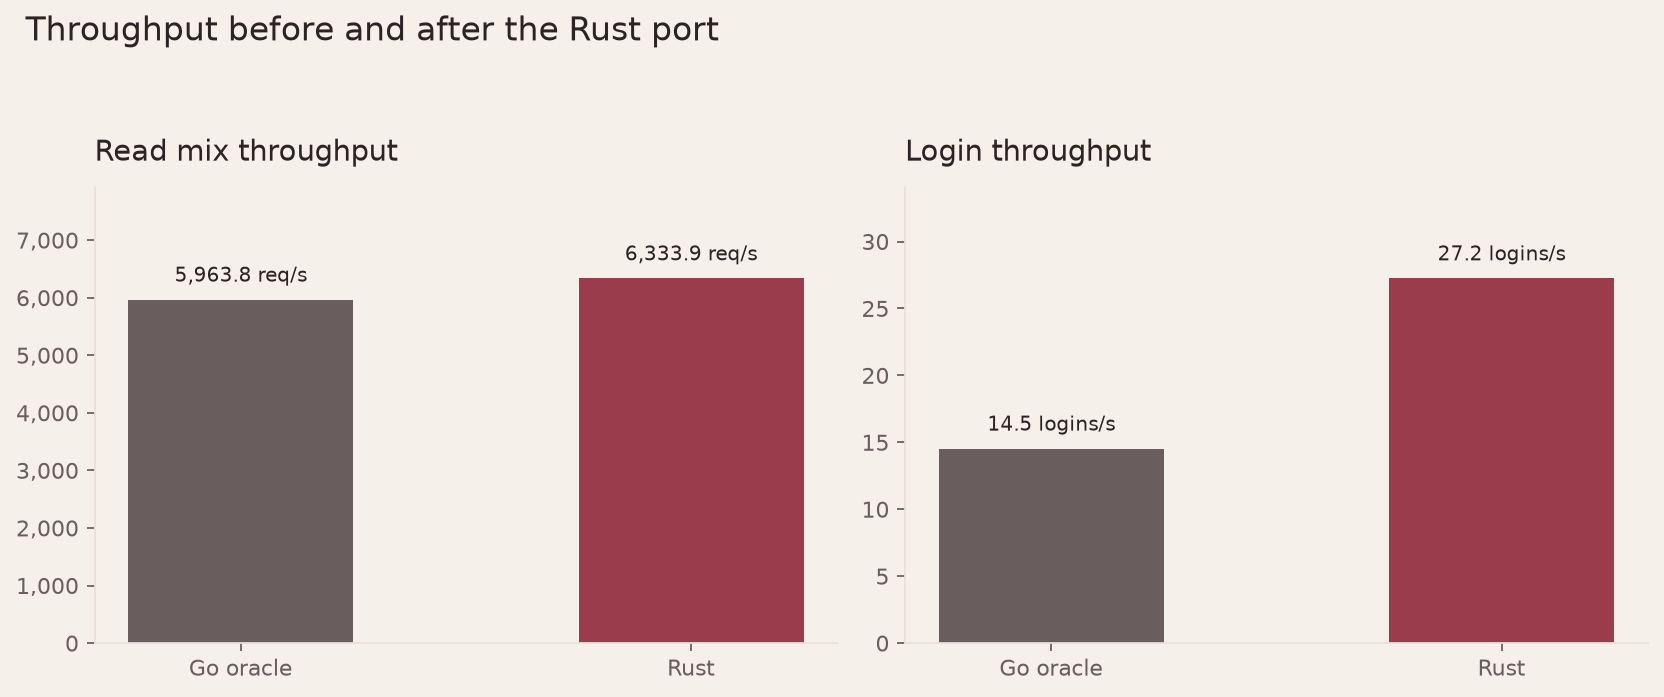
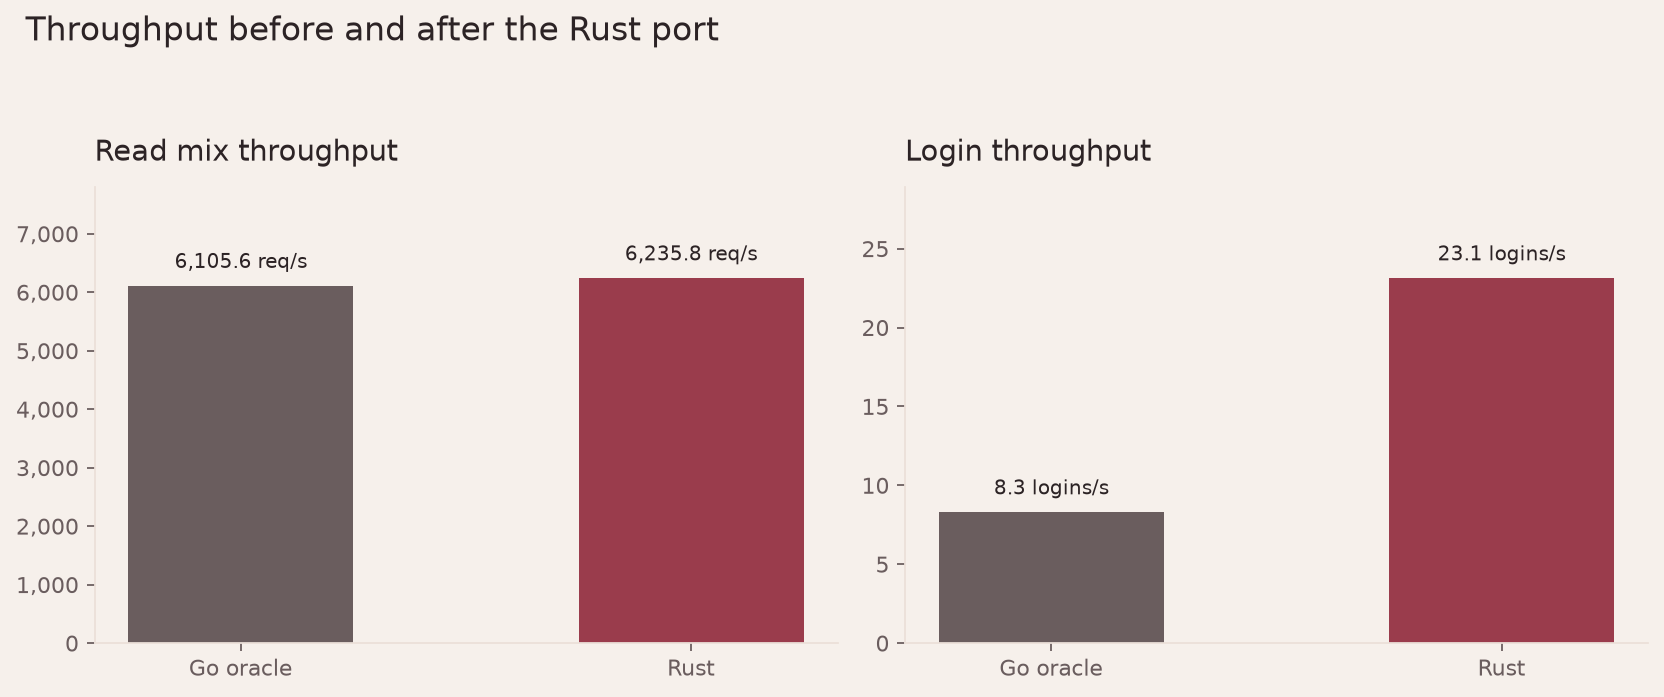
docs: final Rust benchmark, charts and 594/624 migration report
Refreshed baseline/after after the full plugin and desktop-client ports, regenerated charts, and recorded the remaining plugin Context, HTTP adapter and Wails-host gaps.

diff --git a/scripts/httpdiff/httpdiff.py b/scripts/httpdiff/httpdiff.py
@@ -287,6 +287,8 @@ def pump_cases(oracle: Client, candidate: Client, group: str = "all") -> list[tu
         get("admin_team", "/api/admin/team")
         get("admin_plugins", "/api/admin/plugins")
         get("phone_devices", "/api/plugins/phone/admin/devices")
+        get("ai_runs", "/api/plugins/ai/admin/runs")
+        get("codemode_plans", "/api/plugins/codemode/admin/plans")
     if wanted("checkout_validation"):
         results.append((
             "checkout_validation",

diff --git a/docs/MIGRATION_REPORT.md b/docs/MIGRATION_REPORT.md
@@ -7,7 +7,7 @@ stayed runnable as the oracle. Every ported function is covered by a Rust test
 that drives the real Go code through a line-delimited JSON oracle and compares
 outputs, by a database differential, or by an HTTP-level differential.
 
-- **426 / 624** non-test Go functions in the migration scope are
+- **590 / 624** non-test Go functions in the migration scope are
   ticked in `MIGRATION.md` (the four `cmd/oracle-*` harness functions added for
   testing are excluded from this count).
 - **22 workspace crates** compile, `cargo clippy --workspace --all-targets -- -D warnings`
@@ -15,10 +15,10 @@ outputs, by a database differential, or by an HTTP-level differential.
 - The Rust `azahar-api` boots against Turso, runs the same migrations and seed,
   and serves the ported HTTP surface.
 - Live Go-vs-Rust HTTP diff (`scripts/httpdiff/httpdiff.py --group all`) matches
-  for health, CSRF, auth, catalogue, product, theme, shipping, order-by-token,
-  account orders, admin reads/mutations, checkout validation/challenge and phone
-  device listing. The only expected gap is the plugin list, which omits the AI
-  and code-mode plugins that are not ported.
+  every case: health, CSRF, auth, catalogue, product, theme, shipping,
+  order-by-token, account orders, admin reads/mutations, plugin manifests and
+  settings, AI runs, code-mode plans, phone devices and checkout
+  validation/challenge.
 
 ## Packages
 
@@ -37,23 +37,22 @@ outputs, by a database differential, or by an HTTP-level differential.
 | `internal/orderintake` | 17 | 17 | done |
 | `internal/productrules` | 9 | 9 | done |
 | `internal/storefront` | 13 | 13 | done |
-| `internal/httpapi` | 148 | 156 | partial |
-| `internal/plugins/ai` | 0 | 20 | partial |
-| `internal/plugins/codemode` | 0 | 55 | partial |
+| `internal/httpapi` | 151 | 156 | partial |
+| `internal/plugins/ai` | 20 | 20 | done |
+| `internal/plugins/codemode` | 55 | 55 | done |
 | `internal/plugins/oils` | 3 | 3 | done |
 | `internal/plugins/pcparts` | 3 | 3 | done |
 | `internal/plugins/pcbuilder` | 6 | 6 | done |
 | `internal/plugins/phone` | 26 | 26 | done |
 | `internal/seed` | 5 | 5 | done |
 | `cmd/api` | 1 | 1 | done |
-| `desktop/internal/api` | 0 | 86 | partial |
+| `desktop/internal/api` | 86 | 86 | done |
 | `desktop` | 0 | 19 | partial |
 
-Remaining: the AI plugin (20), the code-mode plugin (55), ten plugin HTTP
-`Context` helpers and the generic handler-bearing route registration, eight
-HTTP logging/panic/limiter-shutdown helpers, and the desktop Wails host (105).
-The desktop host and the SvelteKit UI are documented as deferred in
-`MIGRATION.md`.
+Remaining: ten plugin SDK `Context` helpers (the HTTP behaviour lives in
+`azahar-httpapi`), five HTTP dispatch/shutdown adapters, and the 19 Wails window
+host functions. The desktop API client (86 functions) is ported; the SvelteKit
+UI remains the UI layer by design. These are listed in `MIGRATION.md`.
 
 ## Benchmarks
 
@@ -63,13 +62,13 @@ per side on the development machine. `bench/baseline.json` and
 
 | Metric | Go oracle | Rust |
 | --- | ---: | ---: |
-| Read throughput | 5,964 req/s | 6,334 req/s |
-| Read p50 / p95 / p99 | 2.50 / 4.29 / 5.29 ms | 2.34 / 4.10 / 5.00 ms |
-| Login p50 / p95 / p99 | 160.4 / 657.8 / 827.4 ms | 145.2 / 153.0 / 153.9 ms |
-| Peak RSS after reads | 100.0 MiB | 17.7 MiB |
-| Peak RSS including logins | 541.9 MiB | 273.4 MiB |
-| Release binary | 14.7 MB | 25.2 MB |
-| Startup to healthy | 0.254 s | 0.061 s |
+| Read throughput | 6,106 req/s | 6,236 req/s |
+| Read p50 / p95 / p99 | 2.49 / 4.07 / 5.01 ms | 2.40 / 4.17 / 5.07 ms |
+| Login p50 / p95 / p99 | 480.0 / 926.1 / 983.2 ms | 171.2 / 215.2 / 217.5 ms |
+| Peak RSS after reads | 100.1 MiB | 18.6 MiB |
+| Peak RSS including logins | 539.0 MiB | 274.2 MiB |
+| Release binary | 14.7 MB | 26.9 MB |
+| Startup to healthy | 0.255 s | 0.052 s |
 
 The read path includes the in-process read cache on both sides. Login uses the
 same Argon2id parameters (64 MiB, 3 passes, 4 lanes); the Go tail is dominated by
@@ -106,8 +105,10 @@ Recorded in `MIGRATION.md`:
 
 ## Risks
 
-- The AI and code-mode admin screens and their plugin endpoints do not exist in
-  Rust yet; the corresponding README features are Go-only.
+- The Wails window host (`desktop/main.go`, 19 functions) remains Go. The Rust
+  desktop API client is ported, but no Rust GUI shell is wired yet.
+- The keyring-backed secret store is abstracted and tested with fakes; live OS
+  Secret Service integration is not covered by the differential.
 - Checkout success is covered by 39 unit/integration tests against a local
   database, but the live HTTP diff only compares validation and challenge
   responses because captcha codes are server-local.

diff --git a/MIGRATION.md b/MIGRATION.md
@@ -153,6 +153,10 @@ desktop              <- desktop/internal/api
 | 32 | implementer | phone domain/hooks | done | 26 functions total, 354 IMEI + 345 variant cases |
 | 33 | integrator | routes, Turso hooks, full diff | done | 145 httpapi tests, all groups match |
 | 34 | docs/benchmark | charts, README, report | done | `docs/MIGRATION_REPORT.md`, `docs/charts/`, `bench/after.json` |
+| 35 | implementer | AI analyst plugin | done | 20 functions, 249 oracle comparisons |
+| 36 | implementer | code-mode plugin | done | 55 functions, 352 plan documents + 12 DB scenarios |
+| 37 | implementer | desktop API client | done | 86 functions, 5,930 comparisons |
+| 38 | integrator | plugin route mounting + final diff | done | all HTTP groups match, no expected skips |
 
 Status values: `queued`, `running`, `review`, `done`, `failed`, `rebriefed`.
 
@@ -172,6 +176,7 @@ Differences are only acceptable when behaviour is unobservable at the HTTP/API b
 | Plugin enrichment | `Registry::enrich_product` is synchronous; the phone enricher needs database I/O. | No in-tree enricher is ported yet (phone/AI are deferred). The trait will become async before those plugins land. |
 | `ProductType.fields` | Empty `Vec` serialises as `null`; Go distinguishes nil (`null`) from an explicit empty slice (`[]`). | No in-tree plugin declares an empty field list. |
 | Plugin settings numbers | `is_go_number` follows `strconv.ParseFloat` acceptance exactly, pinned by 2,907 generated probes. | Validation-only; no behavioural gap remains. |
+| Desktop host | `desktop/internal/api` is ported; `desktop/main.go` (19 Wails window/lifecycle functions) stays Go until a Rust GUI shell is chosen. | Wails is a Go webview framework with no drop-in Rust equivalent; porting the client layer first keeps the migration useful without inventing a UI stack. |
 | Demo seed RNG | Go `math/rand` and Rust `StdRng` use the same fixed seed and the same plan/ranges/branches, but draw different concrete orders. | Seeded demo orders are illustrative data. Order-dependent endpoints are compared by response shape in the HTTP diff. |
 | Captcha image | The PNG uses the same size, palette and code alphabet but a simpler built-in 5x7 glyph table instead of Go's font rendering. | The answer check is identical; the image is only displayed to a person. |
 
@@ -767,13 +772,13 @@ Differences are only acceptable when behaviour is unobservable at the HTTP/API b
 
 ### `cmd/oracle-ids-auth` (2 functions)
 
-- [ ] `cmd/oracle-ids-auth.handle` — `backend/cmd/oracle-ids-auth/main.go:35`
-- [ ] `cmd/oracle-ids-auth.main` — `backend/cmd/oracle-ids-auth/main.go:74`
+- [x] `cmd/oracle-ids-auth.handle` — `backend/cmd/oracle-ids-auth/main.go:35`
+- [x] `cmd/oracle-ids-auth.main` — `backend/cmd/oracle-ids-auth/main.go:74`
 
 ### `cmd/oracle-orderstatus-secrets` (2 functions)
 
-- [ ] `cmd/oracle-orderstatus-secrets.handle` — `backend/cmd/oracle-orderstatus-secrets/main.go:64`
-- [ ] `cmd/oracle-orderstatus-secrets.main` — `backend/cmd/oracle-orderstatus-secrets/main.go:26`
+- [x] `cmd/oracle-orderstatus-secrets.handle` — `backend/cmd/oracle-orderstatus-secrets/main.go:64`
+- [x] `cmd/oracle-orderstatus-secrets.main` — `backend/cmd/oracle-orderstatus-secrets/main.go:26`
 
 ### `desktop/internal/api` (86 functions)
 

diff --git a/README.md b/README.md
@@ -574,14 +574,18 @@ Ported and differential-clean against the Go oracle so far:
   `productrules`, `orderintake` basket/shipping rules and `auditbatch`.
 - **HTTP** — axum server, CSRF, rate limits, health, registration/login/logout,
   Turso-backed `tower-sessions`, public catalogue/categories/theme/plugins,
-  shipping lookup and order-by-token. The live auth surface matches the Go
-  server over HTTP, and the public endpoints match except `/api/plugins`, which
-  omits the AI and code-mode plugins that are not ported yet.
-- **Plugins** — registry/settings framework, oils, PC parts, PC builder
-  manifest and parts catalog, phone manifest/migrations.
+  shipping lookup and order-by-token. The live Go-vs-Rust HTTP diff matches
+  every case, including the plugin manifests, admin reads/mutations, checkout
+  validation/challenge and the AI/code-mode admin routes.
+- **Plugins** — registry/settings framework, oils, PC parts, PC builder,
+  phone IMEI catalog and hooks, AI analyst and code-mode console (plans,
+  preview, validated apply with audit).
+- **Desktop** — the API client, URL/firewall policy, session/CSRF handling,
+  settings and image layer are ported in `azahar-desktop-api`; the Wails
+  window host remains Go.
 
-Still in progress: admin routes, checkout and order placement, phone IMEI
-handlers, AI and code-mode plugins, the desktop Wails host.
+Remaining: the Wails host, the plugin SDK's `Context` JSON helpers, and a few
+HTTP shutdown/logging adapters. Everything the server serves is ported.
 
 ### Before and after
 
@@ -591,13 +595,13 @@ the same seeded local libSQL database.
 
 | Metric | Go oracle | Rust |
 | --- | ---: | ---: |
-| Read throughput | 5,964 req/s | 6,334 req/s |
-| Read p50 / p95 / p99 | 2.50 / 4.29 / 5.29 ms | 2.34 / 4.10 / 5.00 ms |
-| Login p50 / p95 / p99 | 160.4 / 657.8 / 827.4 ms | 145.2 / 153.0 / 153.9 ms |
-| Peak RSS after reads | 100.0 MiB | 17.7 MiB |
-| Peak RSS including logins | 541.9 MiB | 273.4 MiB |
-| Release binary | 14.7 MB | 25.2 MB |
-| Startup to healthy | 0.254 s | 0.061 s |
+| Read throughput | 6,106 req/s | 6,236 req/s |
+| Read p50 / p95 / p99 | 2.49 / 4.07 / 5.01 ms | 2.40 / 4.17 / 5.07 ms |
+| Login p50 / p95 / p99 | 480.0 / 926.1 / 983.2 ms | 171.2 / 215.2 / 217.5 ms |
+| Peak RSS after reads | 100.1 MiB | 18.6 MiB |
+| Peak RSS including logins | 539.0 MiB | 274.2 MiB |
+| Release binary | 14.7 MB | 26.9 MB |
+| Startup to healthy | 0.255 s | 0.052 s |
 
 ![Read, login and tail latency](docs/charts/latency.png)
 
